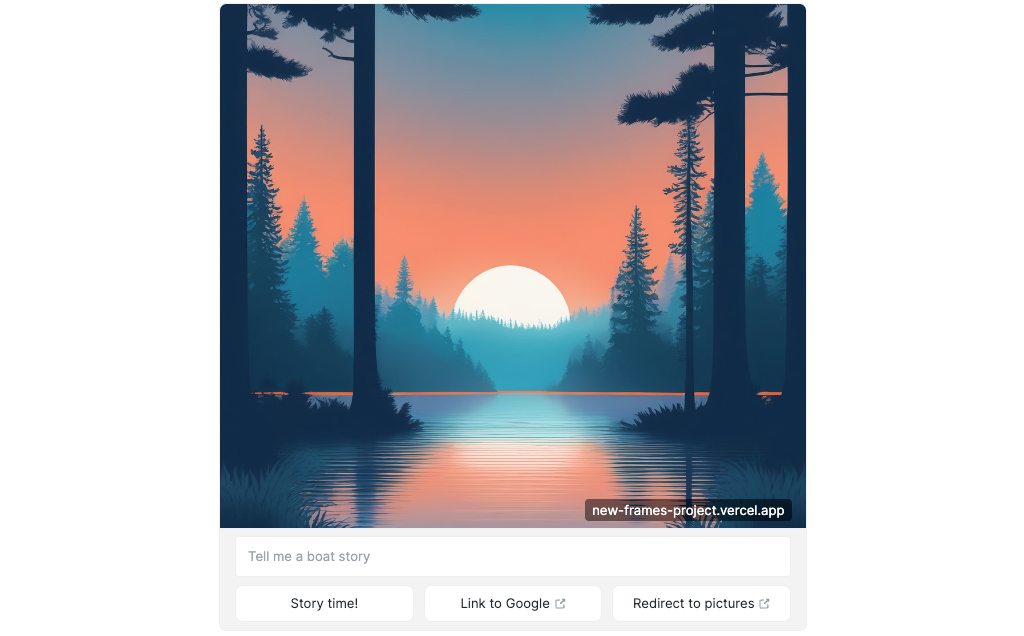
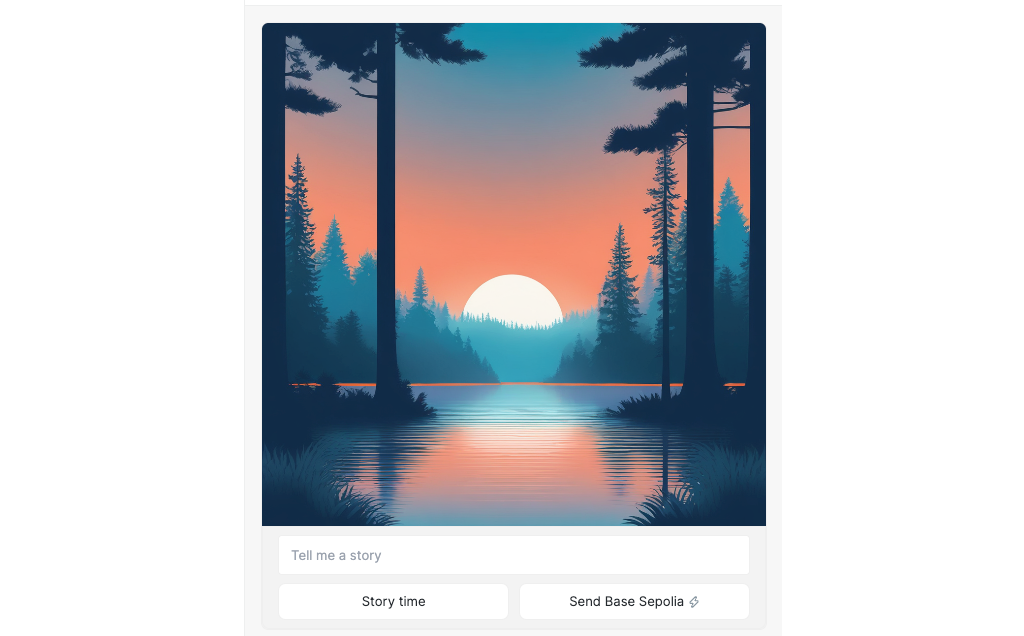
Update gating frames

diff --git a/apps/base-docs/tutorials/docs/3_farcaster-frames-gating-and-redirects.md b/apps/base-docs/tutorials/docs/3_farcaster-frames-gating-and-redirects.md
@@ -10,13 +10,7 @@ hide_table_of_contents: false
 displayed_sidebar: null
 ---
 
-As [Frames] on [Farcaster] grow in popularity, developers are building more complex interactions to meet the community's expectation for new and exciting things to do. [OnchainKit], and our [a-frame-in-100-lines] demo give you a number of tools to build complex interactions within a frame.
-
-:::caution
-
-Frames are brand new and tools are evolving quickly. Check the links above for changelogs!
-
-:::
+You can build complex and exciting [Frames] on [Farcaster] that meet the community's expectation for new and exciting things to do. [OnchainKit], and our [a-frame-in-100-lines] demo give you a number of tools to build complex interactions within a frame.
 
 ---
 
@@ -53,65 +47,37 @@ You should be comfortable with the basics of creating Farcaster [Frames]. If you
 
 ## Setting Up a Copy of A Frame in 100 Lines
 
-If you've been working in the early days of Frames, you may have an existing fork of [a-frame-in-100-lines] that you don't want to alter because it contains live frames.
+Create a new repo using [a-frame-in-100-lines] as a template.
 
-You can create a copy that is not a fork to take advantage of the newest developments without risking prior work. Note that this copy will not behave as a fork.
-
-First, create a bare clone of the template:
-
-```bash
-git clone --bare git@github.com:Zizzamia/a-frame-in-100-lines.git new-frames-project
-```
-
-Create a new, empty repo on GitHub, then mirror-push to that repo.
-
-```bash
-cd new-frames-project
-git push --mirror git@github.com:<YOUR_NAME_HERE>/new-frames-project.git
-```
-
-Delete the `new-frames-project` folder, then clone as normal from the repo on GitHub.
-
-Now you've got a fresh copy to work with!
-
-## Deploy and Test
-
-Add your new repo to Vercel and deploy. If you need a refresher, check out [deploying with Vercel]. Open the [Frame Validator] and test the current version of the template. Remember, this may have changed since the time of writing! We're moving fast!
-
-## A Quick Overview of Features
+Add your new repo to Vercel and deploy. If you need a refresher, check out [deploying with Vercel]. Open the [Frame Validator] and test the current version of the template.
 
 ![100 Lines](../../assets/images/frames/updated-100-lines.png)
 
-The demo now has examples of text entry and redirects.
+The demo has examples of most of the features available for your frames.
+
+### Buttons and Images
+
+The core functionality of a frame is an image and at least 1 button. Buttons can do a number of things, including requesting a new frame to replace the current one, opening a transaction for the user to consider approving, or opening a link to a website.
 
 ### Text Entry
 
-The frame now has a text entry field. Try it out! When you click the `Story Time!` button, the text will be preserved, and will appear in the button on the next frame.
+Optionally, frames can include a text entry field. Try it out! When you click the `Story Time!` button, the text will be preserved, and will appear in the button on the next frame.
 
 ![Story Time](../../assets/images/frames/story-time.png)
 
 The text input field is created by adding the `input` property to `getFrameMetadata`.
 
-In this example, it's in `app/page.tsx` on line 24:
-
 ```tsx
-import { getFrameMetadata } from '@coinbase/onchainkit';
-import type { Metadata } from 'next';
-import { NEXT_PUBLIC_URL } from './config';
-
 const frameMetadata = getFrameMetadata({
   buttons: [
     {
-      label: 'Story time!',
+      label: 'Story time',
     },
     {
-      action: 'link',
-      label: 'Link to Google',
-      target: 'https://www.google.com',
-    },
-    {
-      label: 'Redirect to pictures',
-      action: 'post_redirect',
+      action: 'tx',
+      label: 'Send Base Sepolia',
+      target: `${NEXT_PUBLIC_URL}/api/tx`,
+      postUrl: `${NEXT_PUBLIC_URL}/api/tx-success`,
     },
   ],
   image: {
@@ -119,16 +85,17 @@ const frameMetadata = getFrameMetadata({
     aspectRatio: '1:1',
   },
   input: {
-    text: 'Tell me a boat story',
+    text: 'Tell me a story',
   },
   postUrl: `${NEXT_PUBLIC_URL}/api/frame`,
 });
 ```
 
-When the user enters the text, it gets included in the frame message. You can see how it is retrieved in `api/frame/route.ts`. the `getFrameMessageBody` extracts the frame message from the request, and validates it. The returned `message` contains a number of useful properties that can be seen where it is defined in [OnchainKit], in `src/core/types.ts`:
+When the user enters the text, it gets included in the frame message. You can see how it is retrieved in `api/frame/route.ts`. The `getFrameMessageBody` function extracts the frame message from the request, and validates it. The returned `message` contains a number of useful properties that can be seen where it is defined in [OnchainKit], in `src/frame/types.ts`:
 
 ```tsx
 export interface FrameValidationData {
+  address: string | null; // The connected wallet address of the interacting user.
   button: number; // Number of the button clicked
   following: boolean; // Indicates if the viewer clicking the frame follows the cast author
   input: string; // Text input from the viewer typing in the frame
@@ -136,40 +103,31 @@ export interface FrameValidationData {
     fid: number; // Viewer Farcaster ID
     custody_address: string; // Viewer custody address
     verified_accounts: string[]; // Viewer account addresses
+    verified_addresses: {
+      eth_addresses: string[] | null;
+      sol_addresses: string[] | null;
+    };
   };
   liked: boolean; // Indicates if the viewer clicking the frame liked the cast
   raw: NeynarFrameValidationInternalModel;
   recasted: boolean; // Indicates if the viewer clicking the frame recasted the cast
+  state: {
+    serialized: string; // Serialized state (e.g. JSON) passed to the frame server
+  };
+  transaction: {
+    hash: string;
+  } | null;
   valid: boolean; // Indicates if the frame is valid
 }
 ```
 
-The demo makes use of the `input` property to add the story text to the button in the next frame:
+The demo doesn't make use of the `input` property, but it does extract the text:
 
 ```tsx
 //api/frames/route.ts
 
 // Extract the input:
-if (message?.input) {
-  text = message.input;
-}
-
-// Other code
-
-// Return a new frame, with the story `text`
-return new NextResponse(
-  getFrameHtmlResponse({
-    buttons: [
-      {
-        label: `🌲☀ ${text} 🌲🌲`,
-      },
-    ],
-    image: {
-      src: `${NEXT_PUBLIC_URL}/park-1.png`,
-    },
-    postUrl: `${NEXT_PUBLIC_URL}/api/frame`,
-  }),
-);
+const text = message.input || '';
 ```
 
 ### Link Button
@@ -186,12 +144,12 @@ You can now add outbound links to buttons. To do this with [OnchainKit], simply 
 
 ### Redirect Button
 
-The third button contains a `Redirect to pictures ↗`. The way it works is a little tricky. Start with the `buttons` defined in the original frame in `page.tsx`. The third button is a `post_redirect`:
+You can also do a redirect with a button. The example has one on the second frame - `Dog pictures ↗`. The way it works is a little tricky. Start with the `buttons` defined in the response frame in `app/frame/route.tsx`. The third button is a `post_redirect`:
 
 ```tsx
 {
-  label: 'Redirect to pictures',
   action: 'post_redirect',
+  label: 'Dog pictures',
 },
 ```
 
@@ -244,42 +202,46 @@ if (message?.button === 3 && message.liked) {
     getFrameHtmlResponse({
       buttons: [
         {
-          label: 'Story time!',
+          label: `State: ${state?.page || 0}`,
         },
         {
           action: 'link',
-          label: 'Link to Google',
-          target: 'https://www.google.com',
+          label: 'OnchainKit',
+          target: 'https://onchainkit.xyz',
         },
         {
-          label: 'Redirect to pictures',
           action: 'post_redirect',
+          label: 'Like to see doggos!',
         },
       ],
       image: {
-        src: `${NEXT_PUBLIC_URL}/park-3.png`,
-        aspectRatio: '1:1',
-      },
-      input: {
-        text: 'Tell me a boat story',
+        src: `${NEXT_PUBLIC_URL}/park-1.png`,
       },
       postUrl: `${NEXT_PUBLIC_URL}/api/frame`,
+      state: {
+        page: state?.page + 1,
+        time: new Date().toISOString(),
+      },
     }),
   );
 }
 ```
 
-Note that we're returning a `getFrameHtmlResponse` here, **not** a `getFrameMetadata`!
-
-To test this, you'll need to actually cast the Frame. It won't work in the developer tool!
+Note that we're returning a `getFrameHtmlResponse` here, **not** a `getFrameMetadata`. That's only used for the initial frame created from a page!
 
 ### Follow and Recast Gates
 
 On your own, try changing the "like" gate to require the user to follow you, recast, or all three!
 
+:::info
+
+**Hint:** Take a close look at the `FrameValidationData` properties. [OnchainKit] makes this easy!
+
+:::
+
 ## Conclusion
 
-In this tutorial, you learned how to use the newest features of Frames - text input, link buttons, and redirects. You also learned how to use new features in [OnchainKit] to require your users to perform certain actions to unlock features in your Frame. Finally, you learned how to create a loop in your Frame's behavior, which can be used to create very complicated Frames!
+In this tutorial, you learned how to use the main features of Frames - text input, link buttons, and redirects. You also learned how to use new features in [OnchainKit] to require your users to perform certain actions to unlock features in your Frame. Finally, you learned how to create a loop in your Frame's behavior, which can be used to create very complicated Frames!
 
 ---
 
